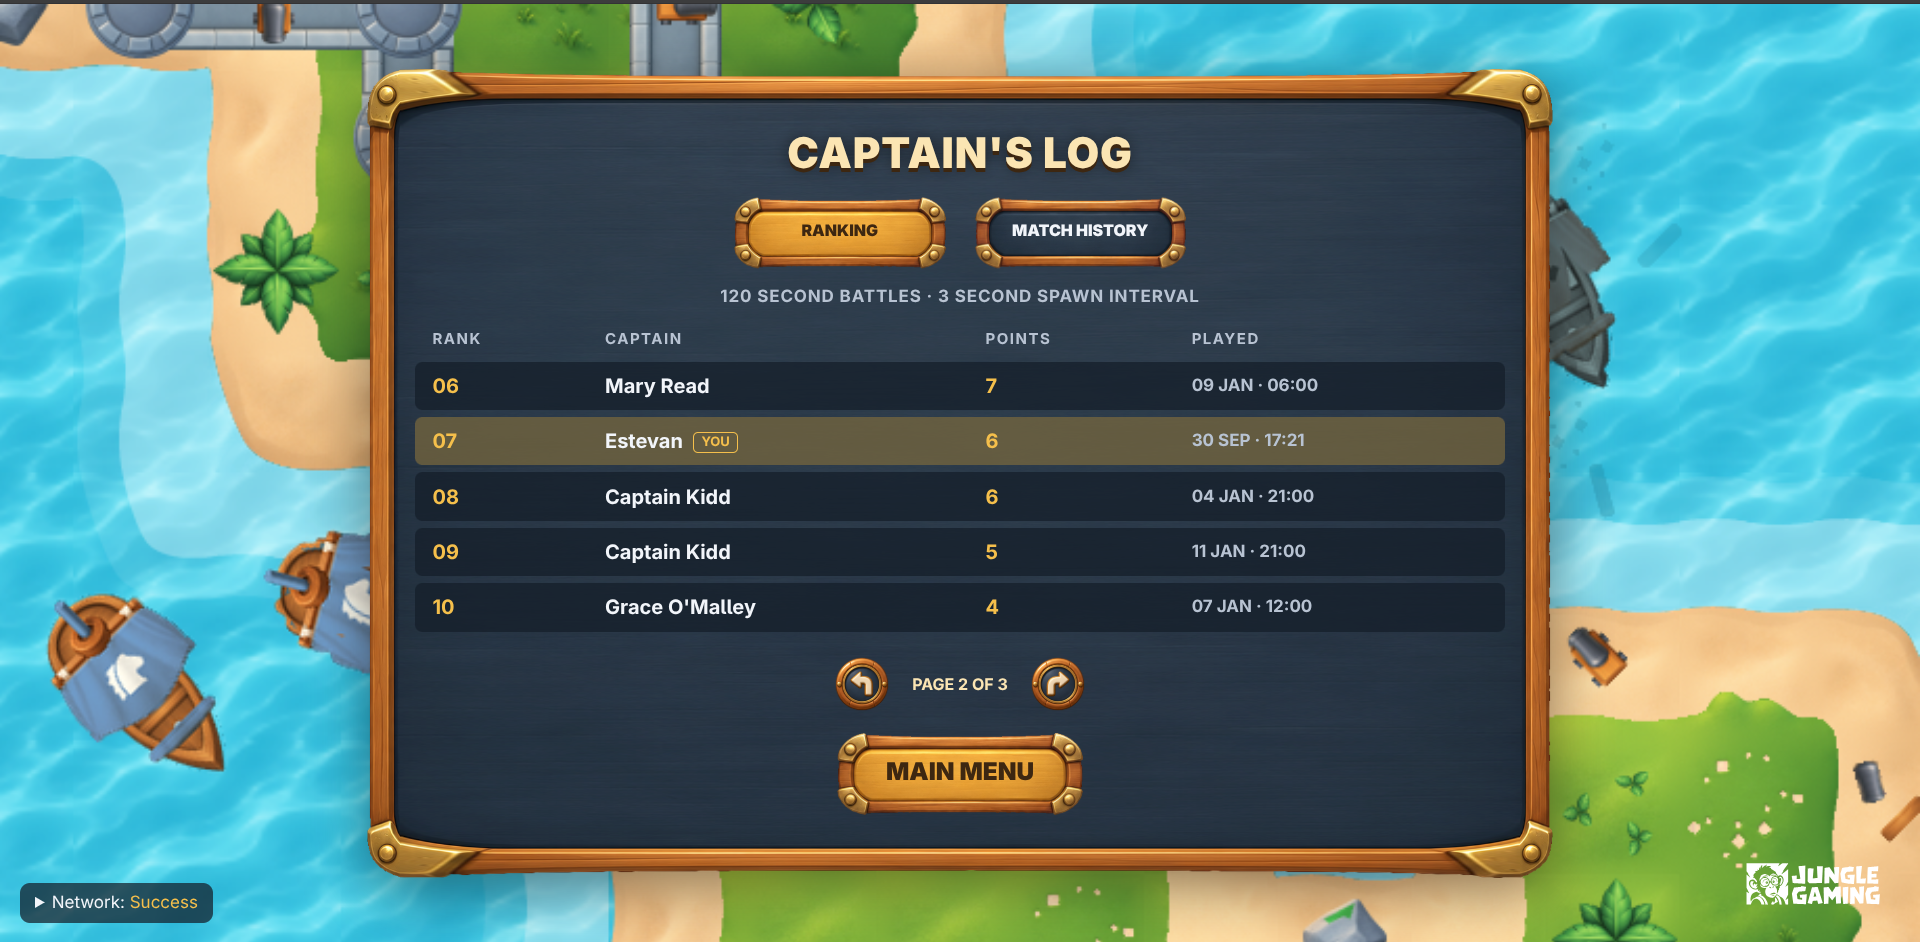
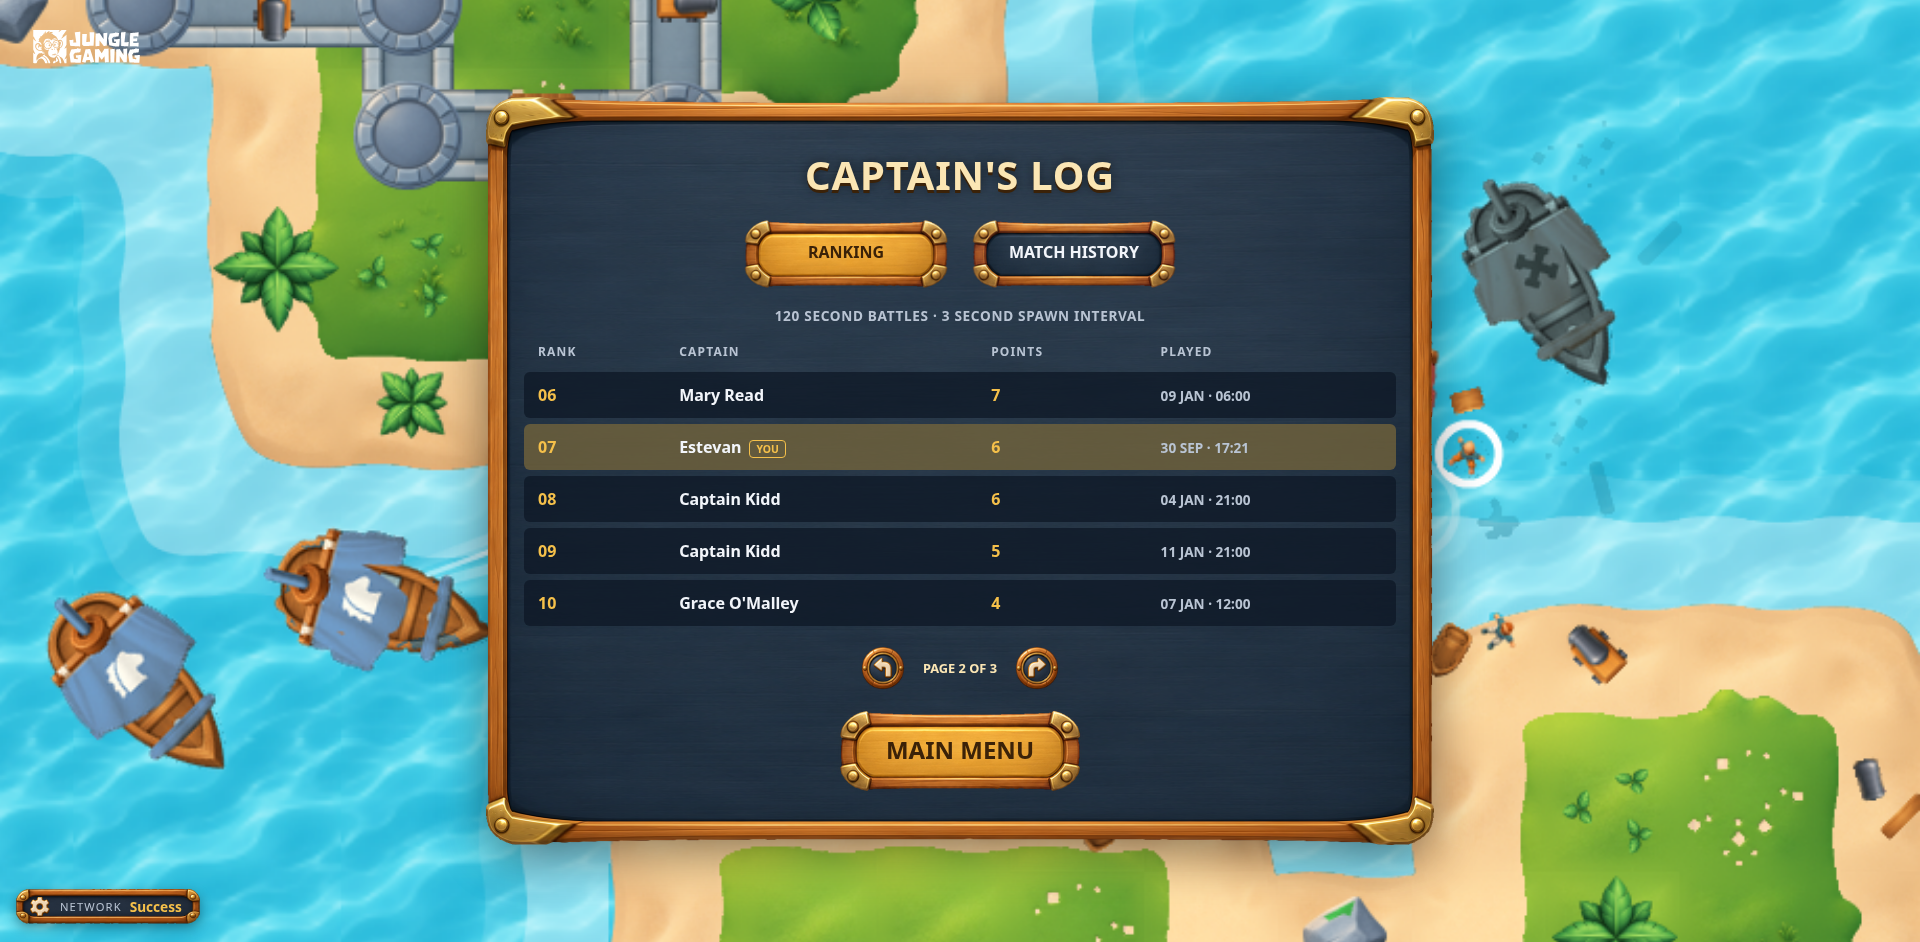
docs: refresh README screenshots and point to the in-game controls
- Regenerate the five README screenshots (menu with Controls and the
  Network chip, Captain's Log, gameplay, result, mobile).
- README: mention main menu → Controls.
- Cap the result title font so "Battle Complete" stays on one line on
  tall screens.

diff --git a/public/style.css b/public/style.css
@@ -1234,7 +1234,9 @@ img {
 }
 
 /* Moldura de madeira (o mesmo 9-slice do painel, menor) em volta do título. */
+/* Teto na fonte: em telas altas "Battle Complete" quebraria em duas linhas. */
 .result__title {
+  font-size: clamp(1.5rem, 4.5vh, 2.1rem);
   padding: 2px 12px;
   border-style: solid;
   border-width: 20px 16px;

diff --git a/README.md b/README.md
@@ -73,6 +73,8 @@ Pirate Battle was built for a front-end game development challenge. The game cor
 
 On touch devices, use the on-screen buttons: movement at the bottom left, weapons at the bottom right. You can move and fire at the same time. **Landscape** is recommended on phones.
 
+The same list is in the game: **main menu → Controls** (also under **Options → Controls**).
+
 ## Getting started
 
 **Requirements:** Node.js 20+ and npm.
